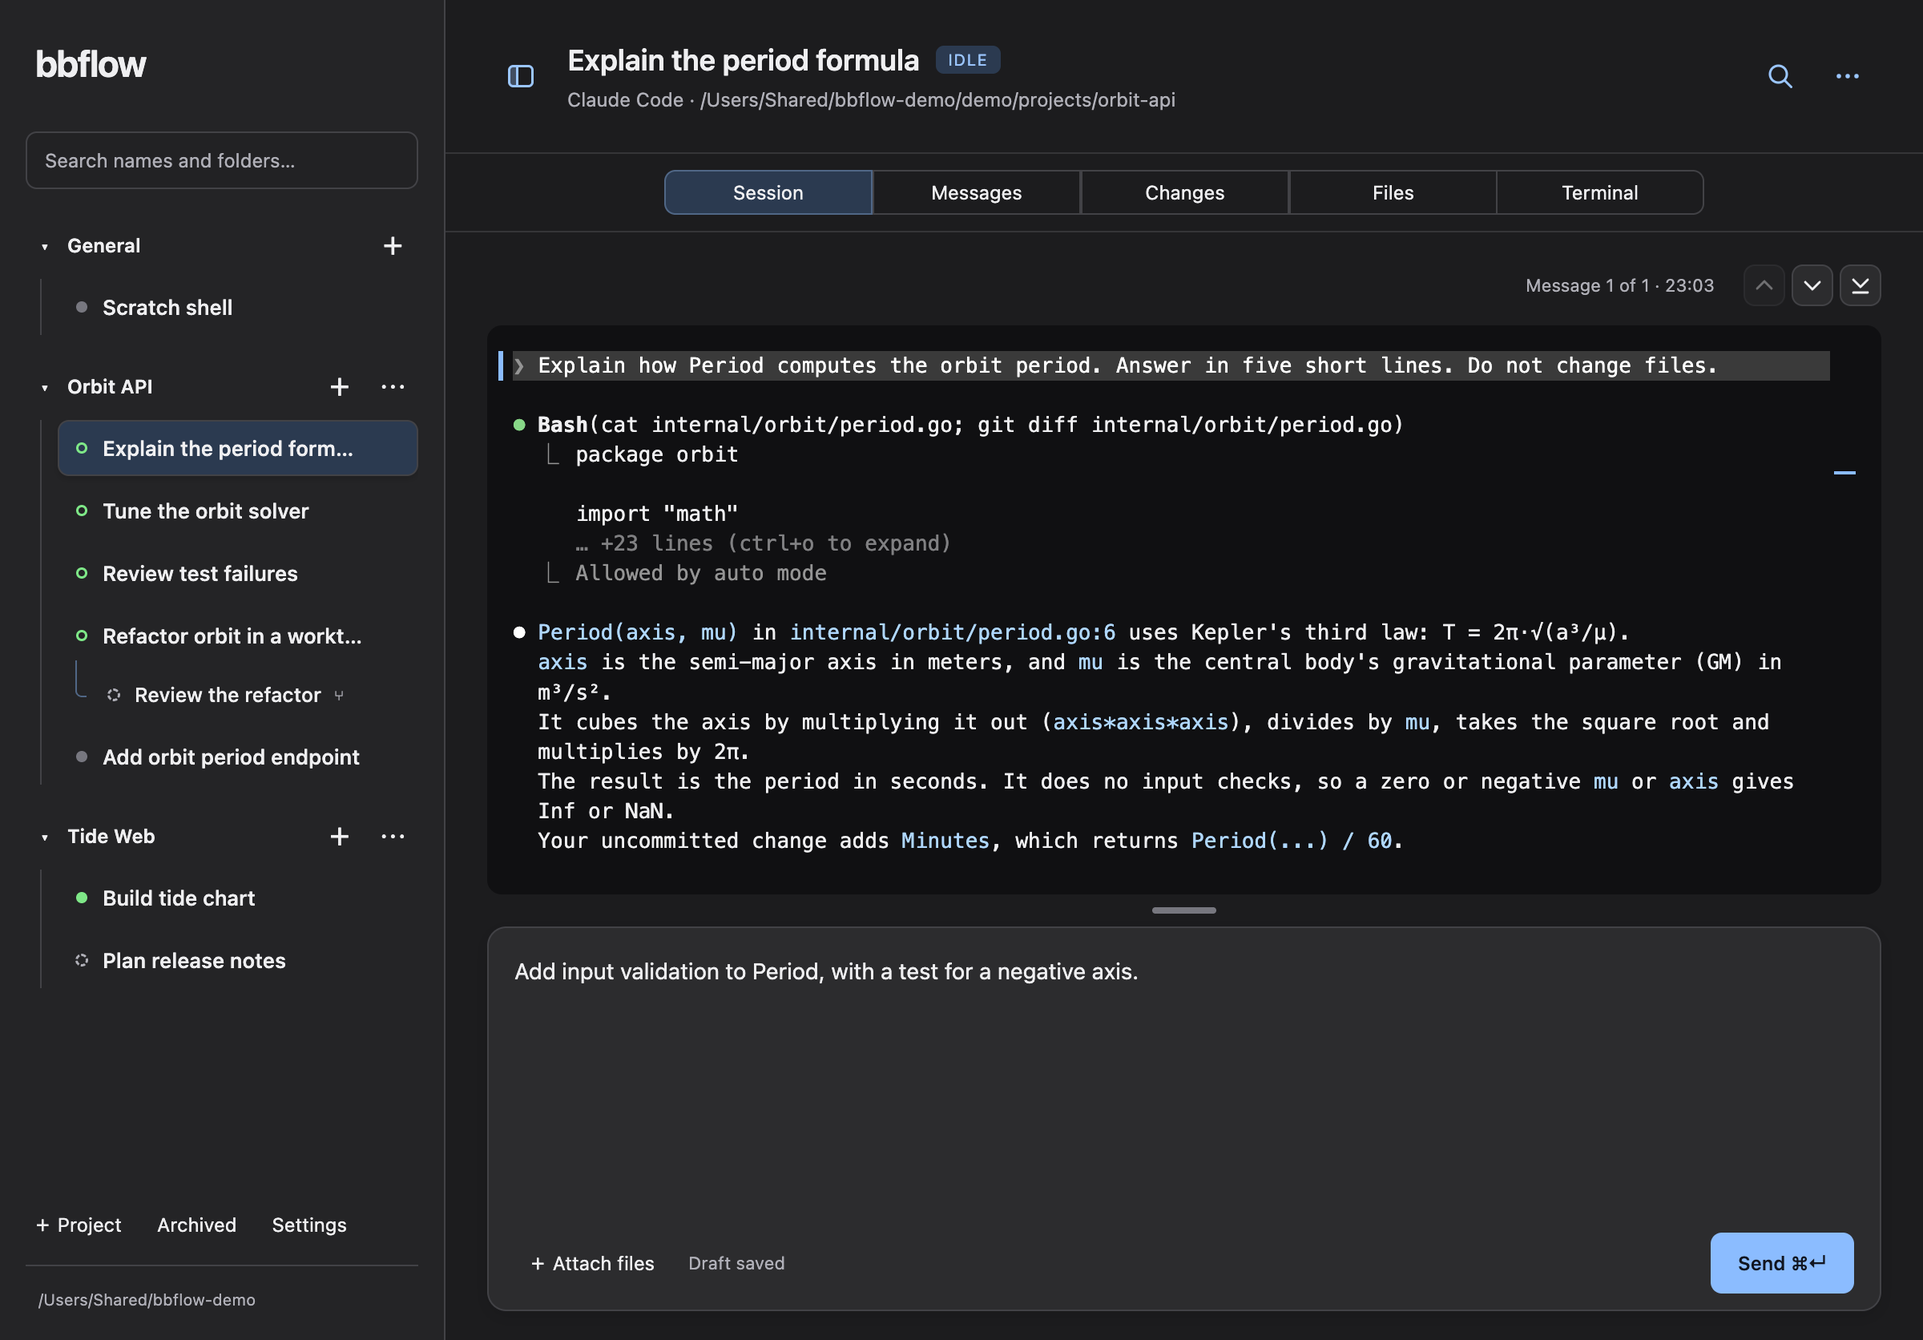
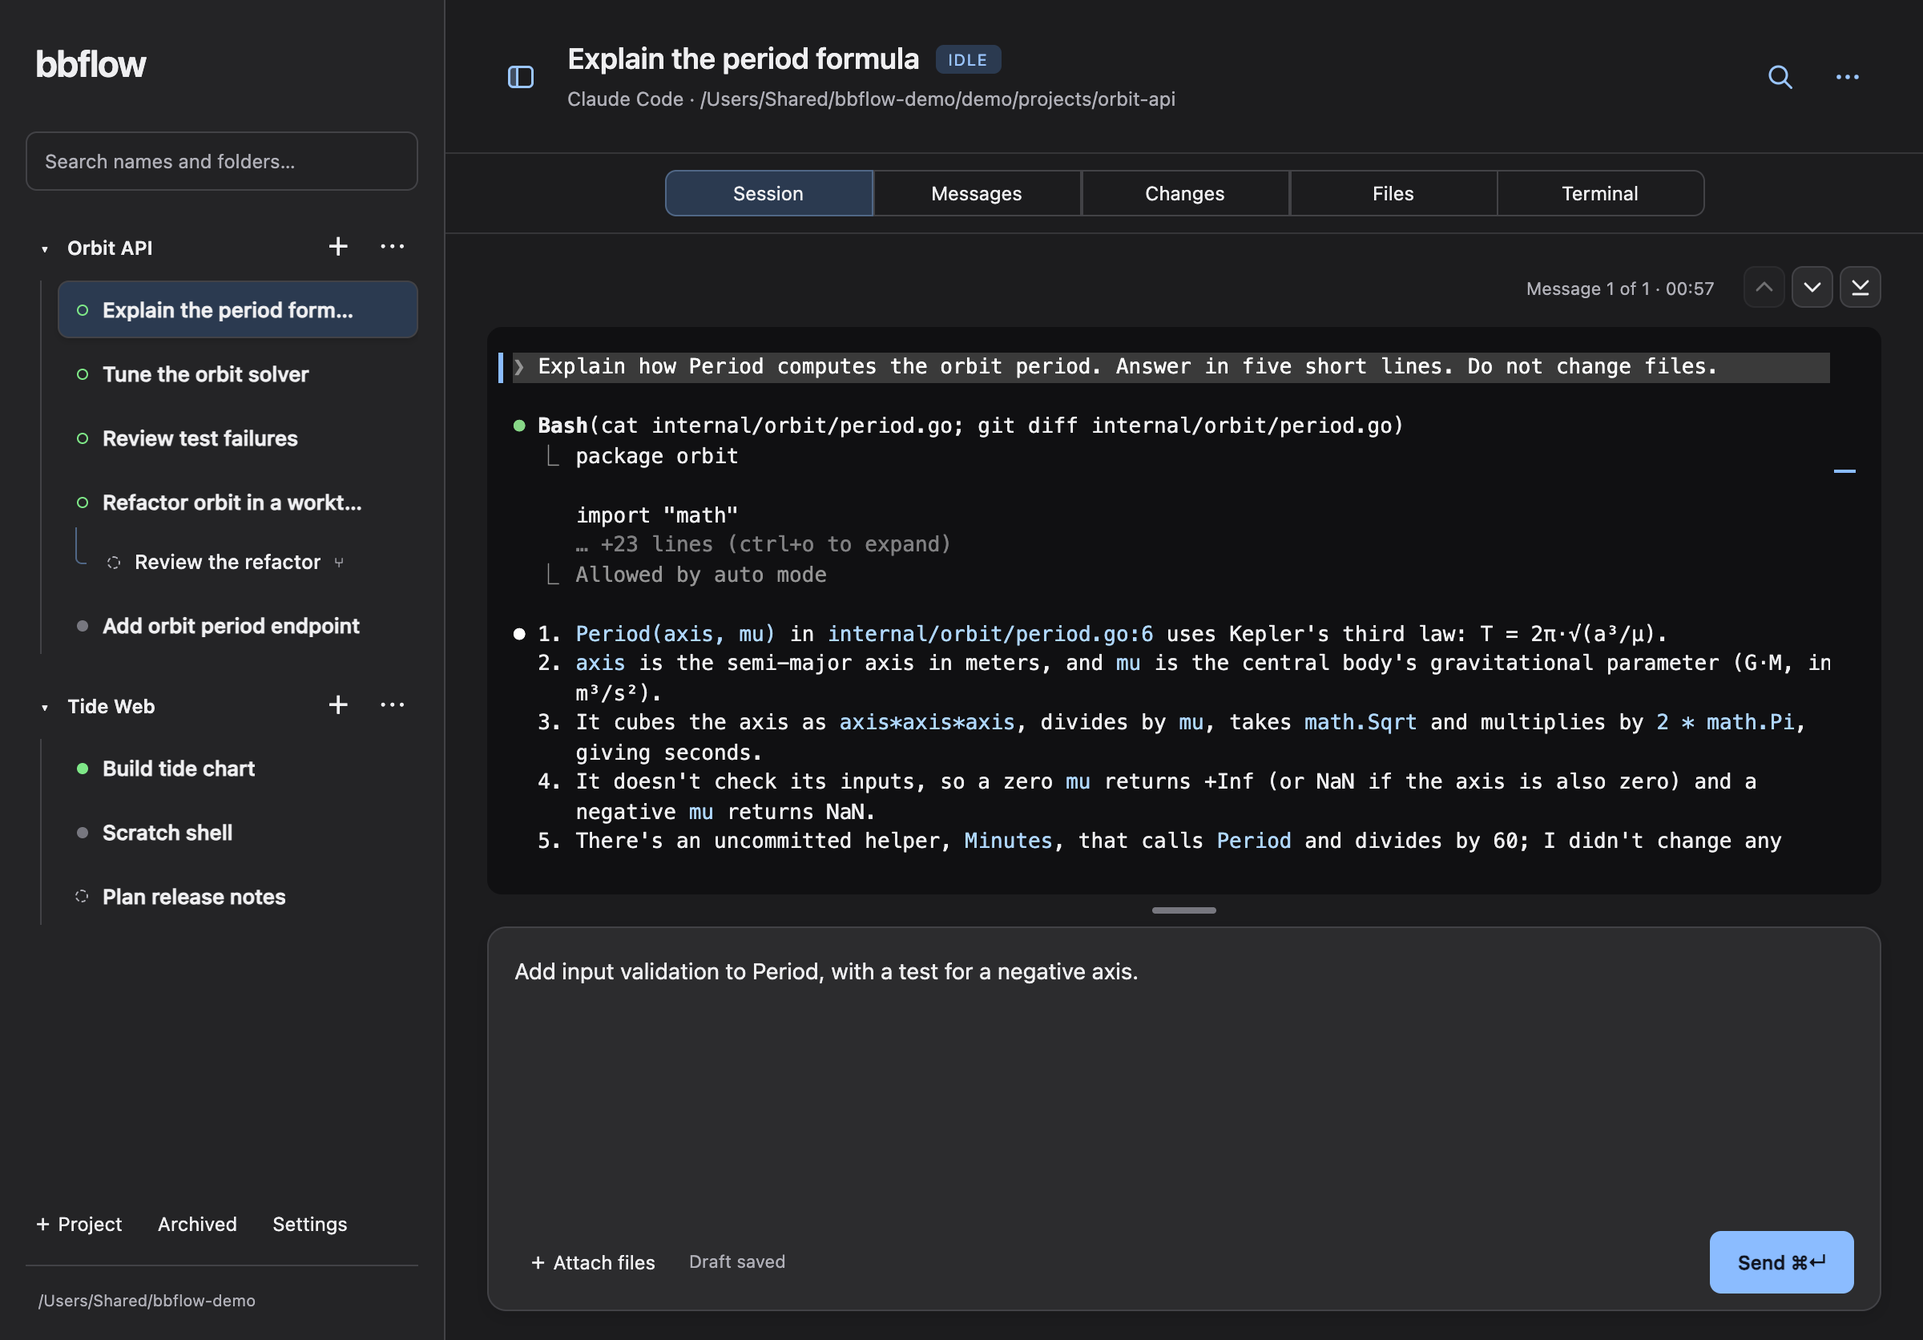
Remove the built-in General project, so a new instance starts with no projects (#98)
bbflow no longer creates a built-in General project. A new instance
starts with no projects, and the user adds each project folder with **＋
Project**.

## Why

General was a special project that the server created at every start, in
`<instance>/workspaces/general`. It could not be renamed or removed. It
gave little that an ordinary project does not give:

- The getting-started steps in the README already add a project before
the first session.
- `GOAL.md` described General as the place for work and history searches
across projects. `bbflow query` works from a terminal in any project,
and its SQL selects the scope, so that work does not need a special
project.
- The folder was hidden inside the instance directory, next to
`history.sqlite` and `worktrees/`. Files that an agent wrote there were
hard to find, and they were deleted with the instance data.
- The special case was spread across the code: the startup step, the
rename and remove guards, the sort order, the UI edit button, the
storage report redaction, and the demo seed.

## What changed

- The server no longer creates General or its folder at startup. A new
instance has no projects and no `workspaces/` folder.
- Projects sort by name. The order ignores the case of ASCII letters
only: **alpha** comes before **Beta**, but **Étoile** comes before
**éclair**. General no longer sorts first.
- Every project has the **⋯** edit button, so every project can be
renamed and removed.
[…]

diff --git a/web/src/app.ts b/web/src/app.ts
@@ -27,7 +27,7 @@ import { terminalSize } from './terminal-size.js';
 import { onTerminalInput } from './terminal-input.js';
 import { Sidebar, mobileQuery, nearestRow } from './sidebar.js';
 import { FileListWidth } from './file-list-width.js';
-import { mergeSessions, placeText, sessionGroups, sessionWindow, shownChildren } from './projects.js';
+import { mergeSessions, placeText, sessionGroups, sessionWindow, shownChildren, welcomeText } from './projects.js';
 import type { Family } from './projects.js';
 import { SessionConnection } from './session-connection.js';
 import { PreparationEditor } from './preparation.js';
@@ -117,6 +117,7 @@ const elements = {
   'terminal-hint': element('terminal-hint', HTMLElement),
   'terminal-announce': element('terminal-announce', HTMLElement),
   'welcome': element('welcome', HTMLElement),
+  'welcome-text': element('welcome-text', HTMLElement),
   'session-view': element('session-view', HTMLElement),
   'instance-dir': element('instance-dir', HTMLElement),
 };
@@ -629,6 +630,7 @@ function renderSessions() {
   // An open row menu keeps the buttons of the list. Its close renders the list again.
   if (fingerprint === renderedSidebar || rowMenus.open) { showListStatuses(); controls(); return; }
   renderedSidebar = fingerprint;
+  $('welcome-text').textContent = welcomeText(projects);
   // New buttons replace the list. Give the keyboard focus to the new button of the same item.
   const focused = document.activeElement instanceof HTMLElement && $('sessions').contains(document.activeElement) ? document.activeElement.dataset.focus : undefined;
   statusMarks.length = 0;
@@ -678,16 +680,14 @@ function renderSessions() {
       add.dataset.focus = `add:${id}`;
       add.onclick = () => action(() => showLaunch(project.id), `Could not add a draft to ${name}.`);
       heading.append(add);
-      if (id !== 'general') {
-        const edit = document.createElement('button');
-        edit.className = 'project-action';
-        edit.textContent = '⋯';
-        edit.title = `Edit ${name}`;
-        edit.setAttribute('aria-label', edit.title);
-        edit.dataset.focus = `edit:${id}`;
-        edit.onclick = () => showProject(project);
-        heading.append(edit);
-      }
+      const edit = document.createElement('button');
+      edit.className = 'project-action';
+      edit.textContent = '⋯';
+      edit.title = `Edit ${name}`;
+      edit.setAttribute('aria-label', edit.title);
+      edit.dataset.focus = `edit:${id}`;
+      edit.onclick = () => showProject(project);
+      heading.append(edit);
     }
     for (const family of group.families) list.append(familyBlock(family, !project));
     if (moreGroups.has(id)) {
@@ -720,7 +720,7 @@ function renderSessions() {
   if (!groups.length) {
     const empty = document.createElement('p');
     empty.className = 'muted';
-    empty.textContent = archivedList ? 'No archived sessions found.' : 'No matching projects or sessions.';
+    empty.textContent = archivedList ? 'No archived sessions found.' : query.trim() ? 'No matching projects or sessions.' : 'No projects yet. Click ＋ Project to add a folder.';
     $('sessions').append(empty);
   }
   showListStatuses();

diff --git a/web/index.html b/web/index.html
@@ -44,7 +44,7 @@
     <div id="view-switch" class="segmented" role="group" aria-label="View" hidden><button id="view-session" type="button" aria-pressed="true">Session</button><button id="view-messages" type="button" aria-pressed="false">Messages</button><button id="view-changes" type="button" aria-pressed="false">Changes</button><button id="view-files" type="button" aria-pressed="false">Files</button><button id="view-terminal" type="button" aria-pressed="false">Terminal</button></div>
     <div id="toasts" aria-label="Errors"></div>
     <section id="welcome" class="welcome">
-      <p>Select a session in the sidebar, or click ＋ beside a project to start one.</p>
+      <p id="welcome-text">Select a session in the sidebar, or click ＋ beside a project to start one.</p>
     </section>
     <div id="session-row">
     <section id="session-view" hidden>

diff --git a/web/src/projects.ts b/web/src/projects.ts
@@ -50,6 +50,14 @@ export function sessionGroups(projects: Project[], sessions: SessionInfo[], filt
   return groups;
 }
 
+// The welcome view tells how to start a session. Without a project, it tells how to add
+// the first one.
+export function welcomeText(projects: Project[]): string {
+  return projects.length
+    ? 'Select a session in the sidebar, or click ＋ beside a project to start one.'
+    : 'Click ＋ Project to add a folder. Then click ＋ beside the project to start a session.';
+}
+
 // Tell where a sub-session works, for its row in the list.
 export function placeText(session: SessionInfo, parent: SessionInfo): string {
   if (session.status === 'draft') return session.preparation?.worktree ? 'new worktree' : 'parent workspace';

diff --git a/internal/history/projects_test.go b/internal/history/projects_test.go
@@ -13,9 +13,6 @@ func TestProjectsPersistAndRemovalPreservesSessionHistory(t *testing.T) {
 		t.Fatal(err)
 	}
 	defer func() { s.Close() }()
-	if err = s.EnsureGeneral("/instance/workspaces/general"); err != nil {
-		t.Fatal(err)
-	}
 	project, err := s.CreateProject(" bbflow ", "/work/bbflow")
 	if err != nil {
 		t.Fatal(err)
@@ -36,7 +33,7 @@ func TestProjectsPersistAndRemovalPreservesSessionHistory(t *testing.T) {
 		t.Fatal(err)
 	}
 	projects, err := s.Projects()
-	if err != nil || len(projects) != 2 || projects[0].ID != GeneralProjectID || projects[1].Name != "bbflow" {
+	if err != nil || len(projects) != 1 || projects[0].ID != project.ID || projects[0].Name != "bbflow" {
 		t.Fatalf("projects after reopen: %+v %v", projects, err)
 	}
 	if err = s.RenameProject(project.ID, "Renamed"); err != nil {
@@ -65,43 +62,38 @@ func TestProjectsPersistAndRemovalPreservesSessionHistory(t *testing.T) {
 	}
 }
 
-func TestGeneralIdentityAndProjectValidation(t *testing.T) {
+func TestProjectOrderAndValidation(t *testing.T) {
 	s, err := Open(filepath.Join(t.TempDir(), "history.sqlite"))
 	if err != nil {
 		t.Fatal(err)
 	}
 	defer s.Close()
-	if err = s.EnsureGeneral("/first/general"); err != nil {
-		t.Fatal(err)
+	projects, err := s.Projects()
+	if err != nil || len(projects) != 0 {
+		t.Fatalf("new archive has projects: %+v %v", projects, err)
 	}
-	session, err := s.CreateSession("General work", "/first/general", GeneralProjectID)
+	beta, err := s.CreateProject("Beta", "/work/beta")
 	if err != nil {
 		t.Fatal(err)
 	}
-	if err = s.EnsureGeneral("/relocated/general"); err != nil {
+	alpha, err := s.CreateProject("alpha", "/work/alpha")
+	if err != nil {
 		t.Fatal(err)
 	}
-	p, err := s.Project(GeneralProjectID)
-	if err != nil || p.Workspace != "/relocated/general" {
-		t.Fatalf("general: %+v %v", p, err)
-	}
-	old, err := s.Session(session.ID)
-	if err != nil || old.Workspace != "/first/general" {
-		t.Fatal("rewrote historical workspace", old, err)
-	}
-	if err = s.RemoveProject(GeneralProjectID); err == nil {
-		t.Fatal("removed General")
-	}
-	if err = s.RenameProject(GeneralProjectID, "Other"); err == nil {
-		t.Fatal("renamed General")
+	projects, err = s.Projects()
+	if err != nil || len(projects) != 2 || projects[0].ID != alpha.ID || projects[1].ID != beta.ID {
+		t.Fatalf("projects not in name order: %+v %v", projects, err)
 	}
 	for _, name := range []string{"", " \t ", "two\nlines"} {
 		if _, err = s.CreateProject(name, "/work"); err == nil {
 			t.Fatalf("accepted name %q", name)
 		}
 	}
-	if _, err = s.CreateProject("Duplicate", "/relocated/general"); err == nil {
+	if _, err = s.CreateProject("Duplicate", "/work/beta"); err == nil {
 		t.Fatal("accepted duplicate workspace")
+	}
+	if err = s.RenameProject("missing", "Other"); err == nil {
+		t.Fatal("renamed nonexistent project")
 	}
 	if err = s.RemoveProject("missing"); err == nil {
 		t.Fatal("removed nonexistent project")

diff --git a/cmd/bbflow-demo/main.go b/cmd/bbflow-demo/main.go
@@ -186,17 +186,16 @@ func (d *demo) seed() {
 }
 
 // newInstanceFiles are the entries of an instance directory after the first server
-// start. The General folder is empty.
+// start.
 var newInstanceFiles = map[string]bool{
 	"history.sqlite": true, "history.sqlite-shm": true, "history.sqlite-wal": true,
 	"server.json": true, "server.log": true, "server.lock": true, "server-control.lock": true,
-	"workspaces": true,
 }
 
 // requireNew refuses an instance with data that a new server did not create. The
 // marker lets clean remove the directory, so it must go only on a new instance.
 func (d *demo) requireNew() {
-	const sql = "SELECT (SELECT count(*) FROM projects WHERE id<>'general'), (SELECT count(*) FROM sessions), (SELECT count(*) FROM events), (SELECT revision FROM settings WHERE id=1)"
+	const sql = "SELECT (SELECT count(*) FROM projects), (SELECT count(*) FROM sessions), (SELECT count(*) FROM events), (SELECT revision FROM settings WHERE id=1)"
 	if rows := call[history.QueryResult](d.target, protocol.Request{Operation: "query", SQL: sql}).Rows; fmt.Sprint(rows) != "[[0 0 0 0]]" {
 		fail("%s already has projects, sessions, events, or saved settings; seed only a new instance", d.dir)
 	}
@@ -213,18 +212,6 @@ func (d *demo) requireNew() {
 		if !newInstanceFiles[entry.Name()] {
 			other = append(other, entry.Name())
 		}
-	}
-	workspaces, err := os.ReadDir(filepath.Join(d.dir, "workspaces"))
-	check(err)
-	for _, entry := range workspaces {
-		if entry.Name() != "general" {
-			other = append(other, filepath.Join("workspaces", entry.Name()))
-		}
-	}
-	general, err := os.ReadDir(filepath.Join(d.dir, "workspaces", "general"))
-	check(err)
-	for _, entry := range general {
-		other = append(other, filepath.Join("workspaces", "general", entry.Name()))
 	}
 	if len(other) > 0 {
 		fail("%s has files that a new server does not create: %s; seed only a new instance", d.dir, strings.Join(other, ", "))

diff --git a/cmd/bbflow/projects_test.go b/cmd/bbflow/projects_test.go
@@ -30,18 +30,15 @@ func TestProjectsLaunchAndRemovalThroughServer(t *testing.T) {
 	}
 	var projects []history.Project
 	rpc(protocol.Request{Operation: "project-list"}, &projects)
-	if len(projects) != 1 || projects[0].ID != history.GeneralProjectID {
-		t.Fatalf("missing General: %+v", projects)
+	if len(projects) != 0 {
+		t.Fatalf("new instance has projects: %+v", projects)
 	}
-	general := projects[0]
-	if !strings.HasSuffix(general.Workspace, "/workspaces/general") {
-		t.Fatal(general)
-	}
-	var custom history.Project
+	var kept, custom history.Project
+	rpc(protocol.Request{Operation: "project-add", Name: "Kept", Workspace: t.TempDir()}, &kept)
 	rpc(protocol.Request{Operation: "project-add", Name: "Custom", Workspace: t.TempDir()}, &custom)
 	var views []*sessionView
 	var customID string
-	for _, project := range []history.Project{general, custom} {
+	for _, project := range []history.Project{kept, custom} {
 		view := openSessionView(t, projectStartRequest(t, project.ID, project.Name, protocol.Size{Rows: 24, Cols: 80}))
 		views = append(views, view)
 		waitFor(t, func() bool { return strings.Contains(view.text(), "BBFLOW_SHELL_PROMPT> ") })
@@ -108,7 +105,9 @@ func TestProjectsLaunchAndRemovalThroughServer(t *testing.T) {
 		t.Fatalf("restart: %s %v", output, err)
 	}
 	rpc(protocol.Request{Operation: "project-list"}, &projects)
-	if len(projects) != 2 || projects[0].ID != general.ID || projects[1].ID != replacement.ID {
+	if len(projects) != 2 || projects[0].ID == projects[1].ID ||
+		(projects[0].ID != kept.ID && projects[0].ID != replacement.ID) ||
+		(projects[1].ID != kept.ID && projects[1].ID != replacement.ID) {
 		t.Fatalf("projects lost across restart: %+v", projects)
 	}
 }

diff --git a/internal/history/projects.go b/internal/history/projects.go
@@ -8,8 +8,6 @@ import (
 	"unicode/utf8"
 )
 
-const GeneralProjectID = "general"
-
 type Project struct {
 	ID        string `json:"id"`
 	Name      string `json:"name"`
@@ -25,16 +23,9 @@ func validName(name string) (string, error) {
 	return name, nil
 }
 
-// General follows the instance location. Existing sessions keep their launch path.
-func (s *Store) EnsureGeneral(workspace string) error {
-	_, err := s.db.Exec(`INSERT INTO projects(id,name,workspace,created) VALUES(?,'General',?,?)
- ON CONFLICT(id) DO UPDATE SET workspace=excluded.workspace`, GeneralProjectID, workspace, Now())
-	return err
-}
-
 func (s *Store) Projects() ([]Project, error) {
 	rows, err := s.db.Query(`SELECT id,name,workspace,created FROM projects
- ORDER BY id='general' DESC,name COLLATE NOCASE,id`)
+ ORDER BY name COLLATE NOCASE,id`)
 	if err != nil {
 		return nil, err
 	}
@@ -81,9 +72,6 @@ func changedRow(result sql.Result, err error) error {
 }
 
 func (s *Store) RenameProject(id, name string) error {
-	if id == GeneralProjectID {
-		return errors.New("General is a built-in project and cannot be renamed")
-	}
 	name, err := validName(name)
 	if err != nil {
 		return err
@@ -93,9 +81,6 @@ func (s *Store) RenameProject(id, name string) error {
 
 // Foreign keys detach sessions without deleting their history or workspace paths.
 func (s *Store) RemoveProject(id string) error {
-	if id == GeneralProjectID {
-		return errors.New("General is a built-in project and cannot be removed")
-	}
 	return changedRow(s.db.Exec("DELETE FROM projects WHERE id=?", id))
 }
 

diff --git a/internal/server/projects_test.go b/internal/server/projects_test.go
@@ -4,18 +4,12 @@ import (
 	"context"
 	"os"
 	"path/filepath"
-	"strings"
 	"testing"
-
-	"bbflow/internal/history"
 )
 
 func TestProjectWorkspaceResolution(t *testing.T) {
 	s, _ := composerServer(t)
 	t.Setenv("SHELL", "/bin/sh")
-	if err := s.ensureGeneral(); err != nil {
-		t.Fatal(err)
-	}
 	home := t.TempDir()
 	t.Setenv("HOME", home)
 	if err := os.Mkdir(filepath.Join(home, "repo"), 0700); err != nil {
@@ -40,17 +34,6 @@ func TestProjectWorkspaceResolution(t *testing.T) {
 		if _, err = s.prepareProject(context.Background(), id, ""); err == nil {
 			t.Fatal("accepted missing project")
 		}
-	}
-	draft, err = s.prepareProject(context.Background(), history.GeneralProjectID, "")
-	if err != nil || !strings.HasSuffix(draft.Workspace, "/workspaces/general") {
-		t.Fatalf("general preparation: %+v %v", draft, err)
-	}
-	if err = s.ensureGeneral(); err != nil {
-		t.Fatal(err)
-	}
-	projects, err := s.store.Projects()
-	if err != nil || len(projects) != 2 {
-		t.Fatalf("duplicate General: %+v %v", projects, err)
 	}
 	if err = os.Remove(p.Workspace); err != nil {
 		t.Fatal(err)

diff --git a/cmd/bbflow/server_test.go b/cmd/bbflow/server_test.go
@@ -45,7 +45,7 @@ func TestServerMigratesArchiveBeforeServingAndRecovery(t *testing.T) {
  (SELECT text FROM events WHERE seq=43),
  (SELECT status FROM runs WHERE id='unfinished'),
  (SELECT count(*) FROM events WHERE kind='notice'),
- (SELECT count(*) FROM projects WHERE id='general'),
+ (SELECT count(*) FROM projects),
  (SELECT revision FROM settings WHERE id=1),
  (SELECT count(*) FROM preparations),
  (SELECT count(*) FROM worktrees),
@@ -57,7 +57,7 @@ func TestServerMigratesArchiveBeforeServingAndRecovery(t *testing.T) {
 		if err != nil || json.Unmarshal(output, &result) != nil {
 			t.Fatalf("query after upgrade: %s %v", output, err)
 		}
-		want := `[["68656C6C6F0D0300","café","interrupted",1,1,0,0,0,2]]`
+		want := `[["68656C6C6F0D0300","café","interrupted",1,0,0,0,0,2]]`
 		got, err := json.Marshal(result.Rows)
 		if err != nil || string(got) != want {
 			t.Fatalf("migration/recovery result: %s %v", got, err)

diff --git a/cmd/bbflow-demo/demo_test.go b/cmd/bbflow-demo/demo_test.go
@@ -166,7 +166,7 @@ func TestDemo(t *testing.T) {
 	if info, err := os.Stat(filepath.Join(orbit, "docs", "large.png")); err != nil || info.Size() <= 1<<20 || info.Size() > 5<<20 {
 		t.Fatalf("docs/large.png must be above 1 MiB and at most 5 MiB: %v, %v", info, err)
 	}
-	expect("SELECT name FROM projects ORDER BY name", "[[General] [Orbit API] [Tide Web]]")
+	expect("SELECT name FROM projects ORDER BY name", "[[Orbit API] [Tide Web]]")
 	expect("SELECT archived, count(*) FROM sessions GROUP BY archived ORDER BY archived", "[[0 8] [1 1]]")
 	// The reviewer draft is a sub-session of the worktree session. Its base is the branch
 	// of its parent.

diff --git a/cmd/bbflow/archive_test.go b/cmd/bbflow/archive_test.go
@@ -27,9 +27,11 @@ func TestIndependentDraftsArchiveAndRestoreAcrossRestart(t *testing.T) {
 			}
 		}
 	}
+	var project history.Project
+	rpc(protocol.Request{Operation: "project-add", Workspace: t.TempDir()}, &project)
 	var first, second history.Session
 	for _, draft := range []*history.Session{&first, &second} {
-		rpc(protocol.Request{Operation: "project-draft", Project: history.GeneralProjectID}, draft)
+		rpc(protocol.Request{Operation: "project-draft", Project: project.ID}, draft)
 	}
 	if first.ID == second.ID {
 		t.Fatal("plus reused another draft")

diff --git a/internal/server/projects.go b/internal/server/projects.go
@@ -25,18 +25,6 @@ func expandWorkspace(workspace string) (string, error) {
 	return workspace, nil
 }
 
-func (s *Server) ensureGeneral() error {
-	workspace := filepath.Join(s.info.DataDir, "workspaces", "general")
-	if err := os.MkdirAll(workspace, 0700); err != nil {
-		return err
-	}
-	canonical, err := agent.Canonical(workspace)
-	if err != nil {
-		return err
-	}
-	return s.store.EnsureGeneral(canonical)
-}
-
 func (s *Server) addProject(name, workspace string) (history.Project, error) {
 	path, err := expandWorkspace(workspace)
 	if err != nil {
